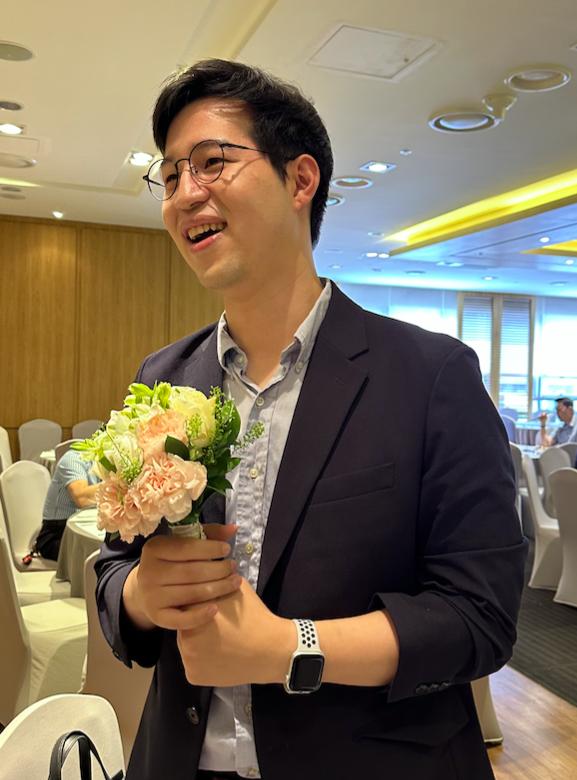
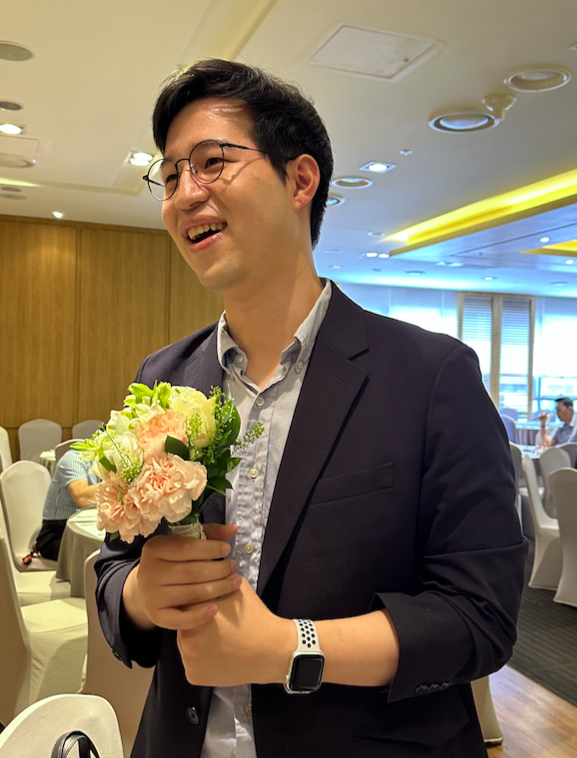
문구 일부 수정 및 사진 리사이즈

diff --git a/kor/index.html b/kor/index.html
@@ -25,11 +25,11 @@
             <div class="section-card intro-layout">
                 <img src="../asset/정진우_프로필.png" alt="정진우 프로필 사진" class="profile-image">
                 <ul class="summary-list">
-                    <li>Deep Learning 기반 Vision Inspection에서 이미지 취득 → 불량 수준 정의 → 라벨링 → 모델 학습/배포 → 성능 고도화 → 설비 적용까지 프로젝트 전 주기를 수행하며 다수의 고객사 과제를 대응했습니다.</li>
+                    <li>딥러닝 기반 비젼검사에서 이미지 취득 - 불량 수준 정의 - 라벨링 - 모델 학습/배포 - 성능 고도화 - 설비 적용까지 프로젝트 전 주기를 수행하며 다수의 고객사 과제를 대응합니다.</li>
                     <li>업무 우선순위와 핵심 의사결정 포인트를 빠르게 정리해 실행 계획으로 전환하고, 일정·품질·리스크를 균형 있게 관리합니다.</li>
-                    <li>동료들과 강점/도전 과제를 공유하며 협업 생산성을 높이고, 팀 관점에서 더 효율적인 실행 방식으로 지속 개선합니다.</li>
-                    <li>신기술을 빠르게 팔로우업하되 실제 현업 적용 가능성을 기준으로 검증·실험하며, 실효성 있는 기술만 선별해 도입합니다.</li>
-                    <li>Vision AI 외에도 업무 자동화, 데이터 크롤링, 3D Pose Estimation, Motion Generation 등 확장 과제에 관심을 갖고 학습/실험을 이어가고 있습니다.</li>
+                    <li>팀의 메인 담장자로서 동료들과 강점/도전 과제를 공유하며 협업 생산성을 높이고, 팀 관점에서 더 효율적인 실행 방식으로 지속 개선합니다.</li>
+                    <li>신기술을 빠르게 팔로우업하되 실제 현업 적용 가능성을 기준으로 검증·실험하며, 실효성 있는 기술을 선별하여 도입합니다.</li>
+                    <li>Vision AI 외에도 업무 자동화, 데이터 크롤링, 3D Pose Estimation, Motion Generation등 다양한 분야에도 관심을 갖고 있습니다.</li>
                 </ul>
             </div>
         </section>
@@ -68,15 +68,22 @@
                 <div class="project-block">
                     <h4>모델 벤치마킹 및 도입</h4>
                     <ul>
-                        <li>오픈소스 모델 DINO, SAM3 성능을 벤치마킹하고 현장 적용 기준을 정립.</li>
-                        <li>차기 파이프라인에 YOLO26 도입을 계획해 정확도/속도 균형을 검증 중.</li>
+                        <li>오픈소스(DINO, SAM)기반 Backbone 일부 튜닝하여 딥러닝 학습 모델 적용.</li>
+                        <li>차기 파이프라인에 신규 YOLO Model 도입을 계획해 정확도/속도 균형을 검증 중.</li>
                     </ul>
                 </div>
                 <div class="project-block">
                     <h4>추론 최적화</h4>
                     <ul>
-                        <li>ONNX/TensorRT 기반 추론 최적화와 전처리 래퍼 통합으로 추론 경로를 단순화.</li>
-                        <li>목표 Tact Time을 20ms 이하로 달성하여 라인 적용성을 향상.</li>
+                        <li>큰 이미지 처리 시 타일링 기반 inference 진행. 타일 배치 사이즈 적용하여 1-batch inference 대비 tact time 감소.</li>
+                        <li>Onnx, TensorRT 기반으로 학습 모델을 변환하여 고객사 솔루션에 적용.</li>
+                    </ul>
+                </div>
+                <div class="project-block">
+                    <h4>타 부서간 원활한 협업</h4>
+                    <ul>
+                        <li>이미지 취득, 고객사 설비 적용이 필요해서 광학팀과 시스템 개발팀과도 활발히 소통함. </li>
+                        <li>타 팀의 업무 범위 및 공수시간을 파악하여 능동적으로 대응.</li>
                     </ul>
                 </div>
             </article>
@@ -122,7 +129,7 @@
             <article class="section-card experience-item">
                 <div class="item-head">
                     <h3>개인 프로젝트</h3>
-                    <p>데이터 수집·자동화 기반으로 반복 업무를 줄이고 운영 의사결정 효율을 높이는 프로젝트를 진행했습니다.</p>
+                    <p>데이터 수집·자동화 기반으로 반복 업무를 줄이고 운영 의사결정 효율을 높이는 프로젝트 진행</p>
                 </div>
                 <div class="project-block">
                     <h4>만화 행사 부스 정보 크롤링 및 시각화 시스템
